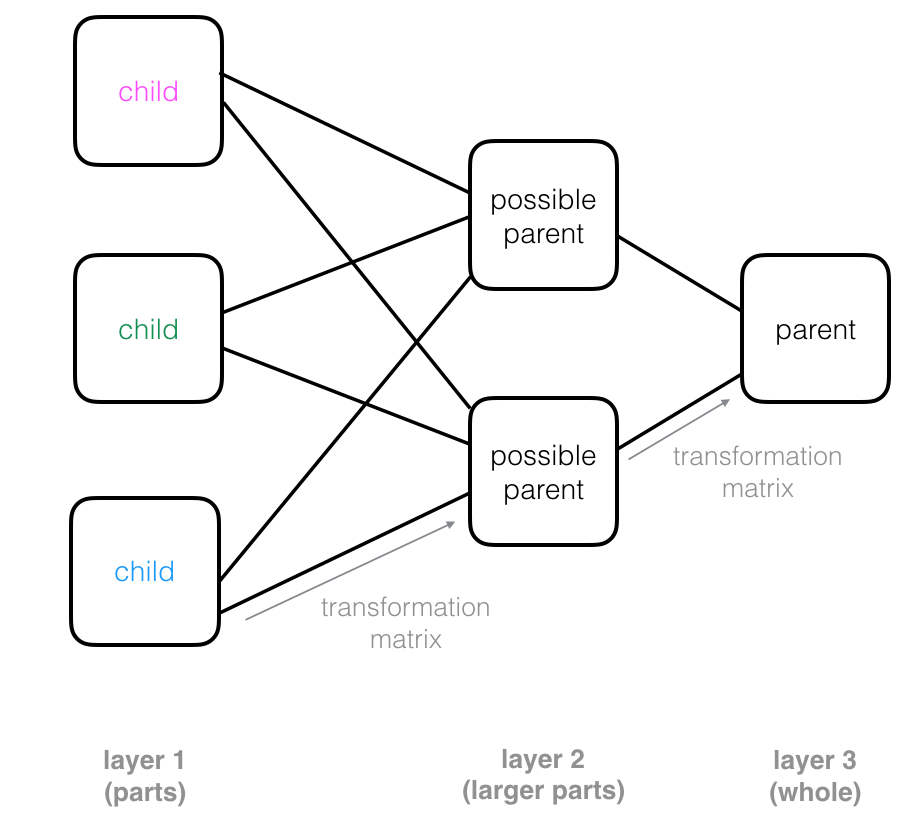
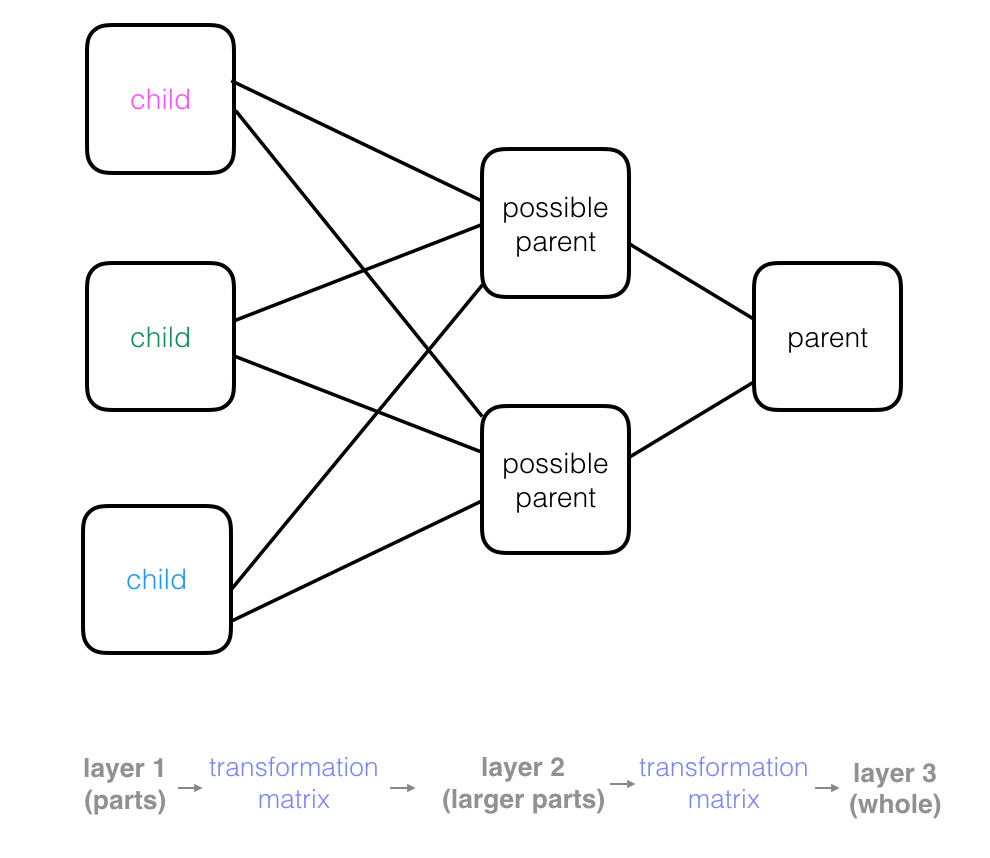
add last image

diff --git a/_posts/2018-6-13-Capsule_Networks.md b/_posts/2018-6-13-Capsule_Networks.md
@@ -21,7 +21,7 @@ Capsule Networks are modeled after how humans tend to focus. Our visual system i
 For the purpose of capsule networks, we’re going to model this piece-by-piece focus as a tree. Trees are made of parent nodes and descendant, children nodes. They are called trees because they are modeled after the shape of tree branches.
 
 <p align="center">
-<img src="/assets/capsules/simple_tree.png" alt="A tree made of one parent node and two, descendant child nodes." width="300" >
+<img src="/assets/capsules/simple_tree.png" alt="A tree made of one parent node and two, descendant child nodes." width="200" >
 </p>
 
 A more complex tree is pictured below. Note that the child nodes in higher layers are *parents* of their own child nodes; these have been color-coded in the diagram so that if a node is a child and parent, its child node text color matches it's corresponding parent node's text color. For example, a node that has purple "parent" text will be attached to a corresponding child node with a purple "child" label. Parent nodes may have more than one child and child nodes can be attached to multiple parents. Also, a "leaf" is a kind of child node without any children. In the case of capsule networks:
@@ -54,12 +54,12 @@ Recall that every node in this tree represents a capsule in a capsule network, a
 Capsules are a small group of neurons where each neuron in a capsule represents various properties of a particular image part. Some examples of part properties include: position and orientation in an image, width, and texture.
 
 <p align="center">
-<img src="/assets/capsules/capsule_ex.png" alt="A single capsule containing multple neurons (part properties)." width="300" >
+<img src="/assets/capsules/capsule_ex.png" alt="A single capsule containing multiple neurons (part properties)." width="300" >
 </p>
 
 A special part property is its **existence** in an image. 
 
-#### Existence
+### Existence
 
 We can represent a part's existence in any image by a probability value: 0 if that part is not detected and 1 if it is; a value of 0.8 indicates an 80% confidence that the part has been found in the image. For example, say we are trying to identify a cat and one part we are trying to identify is a cat's face. We could approach this task in a couple of ways. One way to find the existence of this part, in any image of a cat, is to perform a binary classification: contains-part or doesn't-contain-part, and use those class scores to get the probability of existence. Another way is to look at all of the part properties in a capsule (the width and texture of the face, the angle the face is pointing, etc.) and say that the probability of existence is a function of the number of those properties. If a face-like shape is detected and a certain width and angle are identified, these property neurons will become *active*, and we can use this activity to indicate the existence of a part. This is the approach that capsules take, and it offers a number of advantages to the binary classification approach.
 
@@ -81,13 +81,13 @@ Every capsule outputs a vector, **u**, with a magnitude and orientation.
 Going back to the cat face detection example, say a capsule detects a cat's face in an image, and it outputs a vector with a magnitude of 0.9. This means that it detects a face with 90% confidence.
 
 <p align="center">
-<img src="/assets/capsules/cat_face_1.png" alt="An upright cat's face, detected by a capsule with 90% confidence." width="400" >
+<img src="/assets/capsules/cat_face_1.png" alt="An upright cat's face, detected by a capsule with 90% confidence." width="500" >
 </p>
 
 If we then look at a different image of this cat's face, one in which the cat has flipped, the orientation of this capsule's output vector will change. The face part properties, position, orientation, and shape, have changed in this new image, and the orientation of the output vector changes with each of these property changes. These changes are changes in neural activities inside a capsule. The *magnitude* of the vector should remain very close to 0.9  since the capsule should still be confident that the face exists in the image!
 
 <p align="center">
-<img src="/assets/capsules/cat_face_2.png" alt="An upsidedown cat's face, detected by a capsule with 90% confidence." width="400" >
+<img src="/assets/capsules/cat_face_2.png" alt="An upside-down cat's face, detected by a capsule with 90% confidence." width="500" >
 </p>
 
 
@@ -172,10 +172,10 @@ Dynamic routing can be viewed as a parallel attention mechanism that allows caps
 
 During the training process, while figuring out appropriate coupling coefficients between child and parent capsules, a capsule network learns the spatial relationships between parts and their wholes. For example, in our face tree example, a capsule network would need to know that a typical face has a left and right eye, a nose and mouth below the eyes, and only then would it piece these together to form a complete face! 
 
-The spatial relationships between parts can be modelled by a series of matrix multiplications, between the output of child capsules and parents, that capture the pose (the position and orientation) of each part; then a capsule network essentially checks for "agreement" between these poses. 
+The spatial relationships between parts can be modeled by a series of matrix multiplications, between the output of child capsules and parents, that capture the pose (the position and orientation) of each part; then a capsule network essentially checks for **agreement** between these poses. 
 
 <p align="center">
-<img src="/assets/capsules/complete_coeffs.png" alt="Transformation matrices between a coule layers of a capsule network." width="500" >
+<img src="/assets/capsules/transformation.png" alt="Transformation matrices between a couple layers of a capsule network." width="500" >
 </p>
 
 For example, agreement can ensure that all the parts of a single face are facing in the same direction or that there are one or two eyes on a face and not three. This is in contrast to a typical CNN which only checks for the existence of different features, but not their relationship to one another. Capsules use neural activities that vary with object orientation. They learn to represent spatial relationships between parts and whole objects, which makes it easier for a capsule network to identify an object no matter what orientation it is in.
